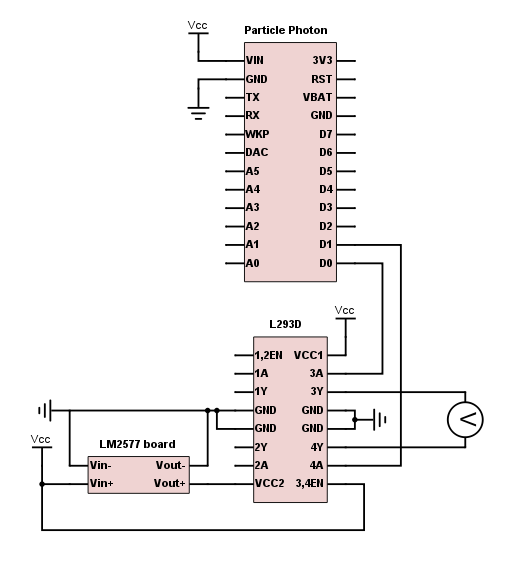
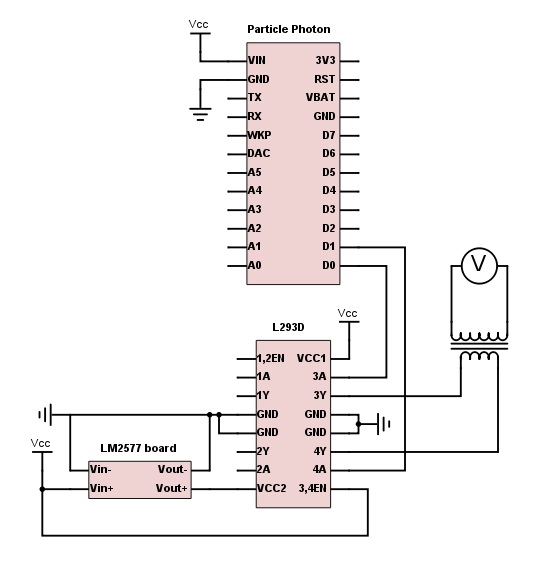
Added transformer to step up voltage and make the phone actually ring.

Changed region(s): [[0.0591, 0.0301, 0.9744, 0.9628]]

diff --git a/Readme.md b/Readme.md
@@ -7,12 +7,10 @@ This repository chronicles my project to build a telephone ring voltage generato
 **PARTS:**
 - Particle Photon
 - L293D Quadruple Half-H Bridge
-- Adjustable DC boost converter  
-  I used this LM2577-based model: http://a.co/huLOzfz
+- LM2577-based adjustable boost converter (http://a.co/huLOzfz)
+- Step-up transformer (see below)
 
-### 1. Generate an AC square wave at 18V/20Hz
-
-Initially, let's just generate a simple AC square wave.  The circuit looks like this:
+Initially, let's just generate an AC square wave.  The circuit looks like this:
 
 ![A/C square wave generator circuit diagram](circuit-diagram.png)
 
@@ -20,10 +18,34 @@ Initially, let's just generate a simple AC square wave.  The circuit looks like 
 
 The code looks like [this](phone-ringer.ino).  We're generating a push-pull square wave by alternately activating one or the other of the outputs on our h-bridge.  This is a little different than normal (i.e. mains) AC power, in that we don't have a "neutral" line that remains at ground potential and a "hot" that oscillates above and below.  Instead, our two lines take turns being the "hot".
 
+### Boost Converter
+
 Before building the circuit, you'll want to set the boost converter to an appropriate voltage.  An easy way to do this is to hook up the input to a couple of AA batteries, and connect a large resistor and your voltmeter to the output.  You can then turn the pot to set the voltage.  For now, I set mine to 18V - we may adjust this later.
 
-Once you build this circuit and power it up, you should get a reading on your voltmeter in AC mode.  If it is a "true RMS" meter, it should read 18V.  Otherwise, the reading may be lower, or inconsistent.  I don't have an oscilloscope, but if you hooked one up you would see something like this:
+### Transformer
 
-![A/C square wave result](waveform.png)
+Ideally, you'd choose a transformer that is designed to operate at 20Hz, but good luck finding one.  The easiest place to get a transformer is to hack it out of a wall-wart AC/DC adapter.
 
-You can experiment with the voltage by setting FREQUENCY_HZ extremely low (e.g. around 0.1).  This should cause the voltage to switch back and forth slowly enough that you will be able to read it with your voltmeter in DC mode.
+For my build, since I have set my boost converter to output 18V, and I want to step that up to 90V, I need a 1:5 transformer.  Since a wall AC adapter steps voltage down from 120V, a 5:1 transformer would output 24V.  If you can't find a 24V AC adapter, you can use a different ratio, and adjust the output of your boost converter appropriately.  You can calculate the appropriate value with this formula:
+
+![Vboostconverter = 90V * (Vacadapter / 120V)](tx-formula.png)
+
+You ideally want an older AC adapter, without a lot of complex circuitry.  In my experience, 5V adapters were a lot more complex than your basic transformer-rectifier circuit, so I'd recommend avoiding those.  When you bust open the adapter, you should see something like this:
+
+![Typical AC adapter](wall_wart_typical.jpg)
+
+You want to desolder the transformer from the rest of the components.  You'll then connect the transformer "backwards", hooking the plug side to your voltmeter and wiring the other side to your h-bridge outputs.
+
+### Results
+
+Once you build this circuit and power it up, you should get a reading on your voltmeter in AC mode.  If it is a "true RMS" meter, it should read close to 90V.  Otherwise, the reading may be lower, or inconsistent.  The voltage may also be a bit lower than 90V, because:
+1. We are operating the transformer at a much lower frequency than it was designed for
+2. We are giving it a square wave, instead of the sine wave it's designed for
+
+Both of these factors will tend to cause transformer core saturation, which is a complex phenomenon that I'm not going to attempt to understand beyond knowing that it reduces the transformer's output in a somewhat unpredictable way.
+
+### Hooking it up!
+
+At this point, you're ready to test the circuit with an actual phone.  Snip one end off of a phone cord, strip the two wires, and connect them to the plug side of your transformer.  If you plug the other end of the cord into a phone, it should ring!
+
+If it sounds weird, don't worry.  We'll deal with that soon.
